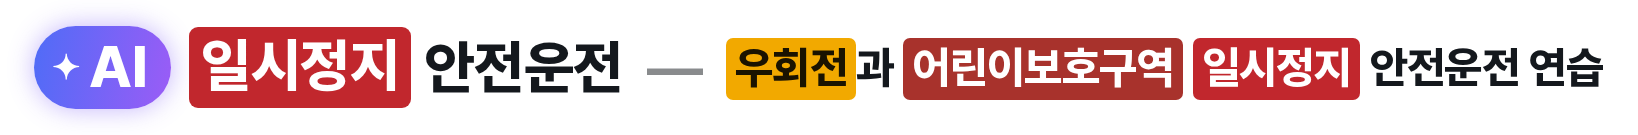
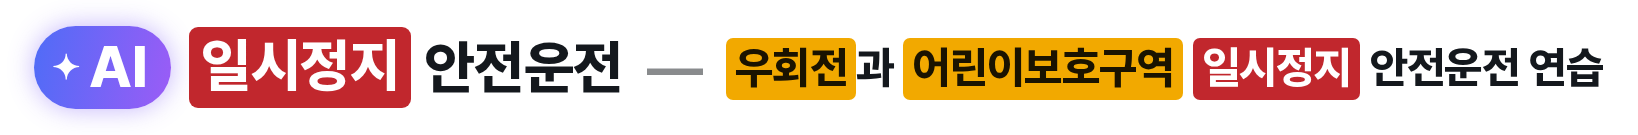
부제의 '어린이보호구역' 을 '우회전' 과 같은 노란 딱지로 칠한다 — 노랑 둘은 어디서, 빨강 하나는 무엇을

Changed region(s): [[0.5293, 0.2667, 0.7473, 0.7407]]

diff --git a/src/brand.ts b/src/brand.ts
@@ -43,18 +43,18 @@
 /**
  * 이름 한 조각.
  *
- * `tone` 이 붙은 조각만 색을 입는다 (index.html 의 `.brand-red` · `.brand-yellow` · `.brand-green` · `.brand-zone`).
+ * `tone` 이 붙은 조각만 색을 입는다 (index.html 의 `.brand-yellow` · `.brand-stop` · `.brand-ai`).
  * 색을 여기서 정하지 않고 이름만 주는 이유는, 값은 화면의 것이고 **여기서 정하는 것은
  * "이 글자가 신호등의 어느 등인가"** 이기 때문이다.
  */
 export interface NamePart {
   text: string;
   /**
-   * 신호등의 세 등 — 적색 · 황색 · 녹색. `yellow` 는 지금 부제의 '우회전' 딱지가 쓴다 (주의 표지처럼 노란 바탕 · 어두운 글자). `ai` 는 'AI' 배지 (신호등과 다른 모양 · 다른 색).
-   * `zone` 은 어린이보호구역 — 보호구역 노면과 같은 붉은 바탕 (부제의 '어린이보호구역').
+   * 신호등의 세 등 — 적색 · 황색 · 녹색. `yellow` 는 지금 부제의 '우회전' · '어린이보호구역' 딱지가 쓴다
+   * (주의 표지처럼 노란 바탕 · 어두운 글자). `zone`(보호구역 노면색)은 부제가 노랑으로 바뀌며 쓰는 곳이 없어졌다. `ai` 는 'AI' 배지 (신호등과 다른 모양 · 다른 색).
    * `stop` 은 **제목의 정지 표지** — 붉은 바탕의 '일시정지'.
    */
-  tone?: 'red' | 'yellow' | 'green' | 'ai' | 'zone' | 'stop';
+  tone?: 'red' | 'yellow' | 'green' | 'ai' | 'stop';
   /**
    * 줄이 접혀도 **한 덩어리로** 내려간다. 좁은 화면(390px)에서 부제가 두 줄이 될 때 마지막 낱말만 홀로 아랫줄에
    * 남았다 — 딱지의 여백만큼 윗줄이 길어져서다. '안전운전 학습' 을 묶어 두면 '… 어린이보호구역' 에서 끊긴다.
@@ -118,9 +118,9 @@ export const APP_ICON_SVG = [
  * 부제는 제목의 두 낱말('일시정지' · '안전운전')을 다시 적는다 (사용자가 그렇게 적어 달라고 했다) —
  * 제목만 보고 지나친 사람도 부제 한 줄에서 **어디서 · 무엇을 · 무엇을 위해** 를 한 번에 읽게 된다.
  *
- * **딱지 셋이 곧 이 작품의 세 낱말이다** (사용자가 색까지 정했다) — **'우회전' 은 노란 바탕**(주의 표지처럼
- * 어두운 글자), **'어린이보호구역' 은 보호구역 노면과 같은 붉은 바탕**, **'일시정지' 는 정지 표지의 붉은 바탕**.
- * 어디서(우회전 · 어린이보호구역) 무엇을 해야 하는지(일시정지)가 색만 훑어도 읽힌다. 나머지 낱말
+ * **딱지 셋이 곧 이 작품의 세 낱말이다** (사용자가 색까지 정했다) — **'우회전' 과 '어린이보호구역' 은 노란
+ * 바탕**(주의 표지처럼 어두운 글자), **'일시정지' 는 정지 표지의 붉은 바탕**. 노랑 둘은 **어디서**,
+ * 빨강 하나는 **무엇을 해야 하는지**다 — 색만 훑어도 이 작품이 무엇을 시키는지 읽힌다. 나머지 낱말
  * (과 · 안전운전 연습)에는 칠하지 않는다 — 다 칠하면 무엇이 주제인지 흐려진다.
  *
  * **이름에서 빠진 '우회전' 이 여기 있다.** 제목이 무엇을 시키는지(일시정지)를 말하면, 부제가 어디서 그래야
@@ -130,7 +130,7 @@ export const APP_ICON_SVG = [
 export const APP_TAGLINE_PARTS: readonly NamePart[] = [
   { text: '우회전', tone: 'yellow' },
   { text: '과 ' },
-  { text: '어린이보호구역', tone: 'zone' },
+  { text: '어린이보호구역', tone: 'yellow' },
   { text: ' ' },
   { text: '일시정지', tone: 'stop' },
   { text: ' ' },

diff --git a/src/index.html b/src/index.html
@@ -1655,7 +1655,6 @@
       .brand-red,
       .brand-yellow,
       .brand-green,
-      .brand-zone,
       .brand-stop {
         color: #fff;
         padding: 0.04em 0.2em;
@@ -1711,15 +1710,6 @@
       */
       .brand-green {
         background: #117332;
-      }
-      /*
-        **어린이보호구역** — 첫 화면 부제의 '어린이보호구역' 딱지 (brand.ts 의 APP_TAGLINE_PARTS · 사용자 요청).
-        이 게임이 그리는 보호구역 노면과 **같은 값**이다 (game/Intersection.ts 의 drawSchoolZonePavement) — 판에서 붉은
-        길을 보면 부제의 이 낱말이 떠오르게. 적색 딱지와 같은 값이지만 이름을 따로 두는 것은 가리키는 것이 달라서다
-        (신호등의 적색이 아니라 보호구역의 색). 흰 글자 6.65:1.
-      */
-      .brand-zone {
-        background: #a8322c;
       }
       /* 줄이 접혀도 한 덩어리로 내려가는 낱말 묶음 (brand.ts 의 NamePart.keep) */
       .brand-keep {

diff --git a/tests/brandName.test.ts b/tests/brandName.test.ts
@@ -27,11 +27,11 @@ describe('이름', () => {
     expect(APP_TAGLINE).toBe('우회전과 어린이보호구역 일시정지 안전운전 연습');
   });
 
-  /* 사용자가 색까지 정했다 — 우회전 노랑 · 어린이보호구역 보호구역색 · 일시정지 정지 표지색 */
-  it('부제는 낱말 셋을 딱지로 칠한다 — 어디서 · 어디서 · 무엇을', () => {
+  /* 사용자가 색까지 정했다 — '어디서'(우회전 · 어린이보호구역)는 노랑, '무엇을'(일시정지)은 정지 표지색 */
+  it('부제는 낱말 셋을 딱지로 칠한다 — 어디서 둘은 노랑, 무엇을 하나는 빨강', () => {
     expect(APP_TAGLINE_PARTS.filter((p) => p.tone).map((p) => `${p.text}:${p.tone}`)).toEqual([
       '우회전:yellow',
-      '어린이보호구역:zone',
+      '어린이보호구역:yellow',
       '일시정지:stop',
     ]);
   });

diff --git a/CHANGELOG.md b/CHANGELOG.md
@@ -22,6 +22,7 @@
 
 ### 변경
 
+- 부제의 **'어린이보호구역' 을 '우회전' 과 같은 노란 딱지**로 칠했습니다. 노랑 둘은 **어디서**, 빨강 하나('일시정지')는 **무엇을 해야 하는지**라, 색만 훑어도 이 작품이 무엇을 시키는지 읽힙니다.
 - 학습자의 호칭을 **`안전운전 Level3` · `안전운전 마스터`** 로 바꿨습니다 (예전 `우회전 Level3` · `우회전 마스터`). 작품 이름이 바뀌었는데 화면에서 부르는 말만 옛 낱말로 남아 있어, 레벨이 무엇의 레벨인지 헷갈렸습니다. 뱃지 이름도 같이 바꿨습니다.
 - **이름을 바꿨습니다 — `AI 일시정지 안전운전`** (예전 `AI 우회전 참교육`). 같은 낱말을 쓴 다른 작품이 먼저 알려져, 제목에 '우회전' 을 두는 것만으로 따라 한 것처럼 보이게 됐습니다. 제목에서는 빼고 **부제에 남깁니다** — `우회전과 어린이보호구역 일시정지 안전운전 연습`. 제목의 '일시정지' 는 정지 표지의 붉은 딱지가 되고, 신호등 딱지 셋(적·황·녹)은 부제의 '우회전' 으로 옮겨 그대로 삽니다. 탭 아이콘도 주황 네모의 '우' 에서 **붉은 팔각형의 '정'** 으로 바뀌었습니다. 화면에서 말하는 이의 이름은 'AI' 하나입니다 (예: "AI 가 운전 습관을 분석하고 있습니다"). 학습자의 호칭(`우회전 Level6` · `우회전 마스터`)은 작품 이름이 아니라 키우는 능력의 이름이라 그대로 둡니다.
 - 결과 화면에서 AI 가 분석하는 동안 **"AI 결과 분석 중..."** 이라고 적습니다 (예전 "AI 답변 작성중...").
